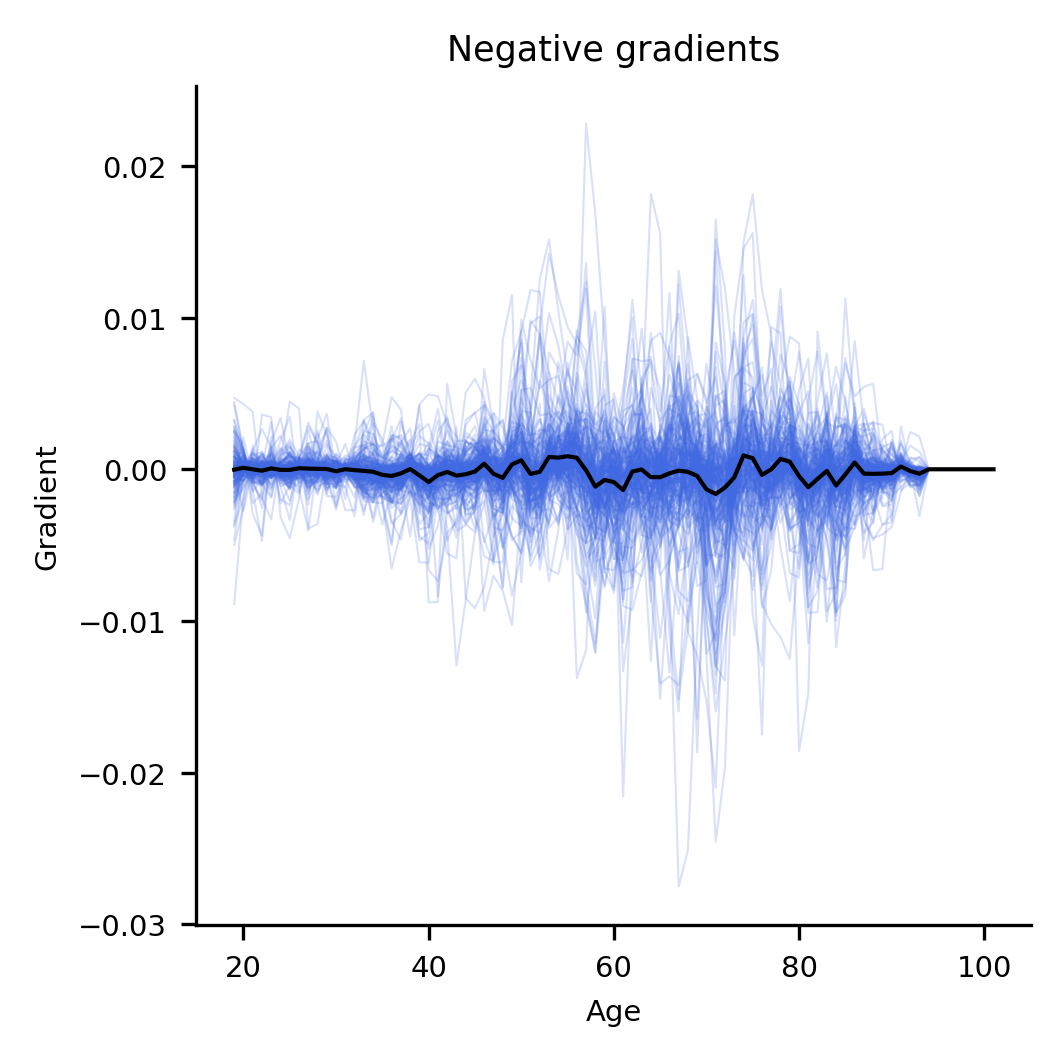
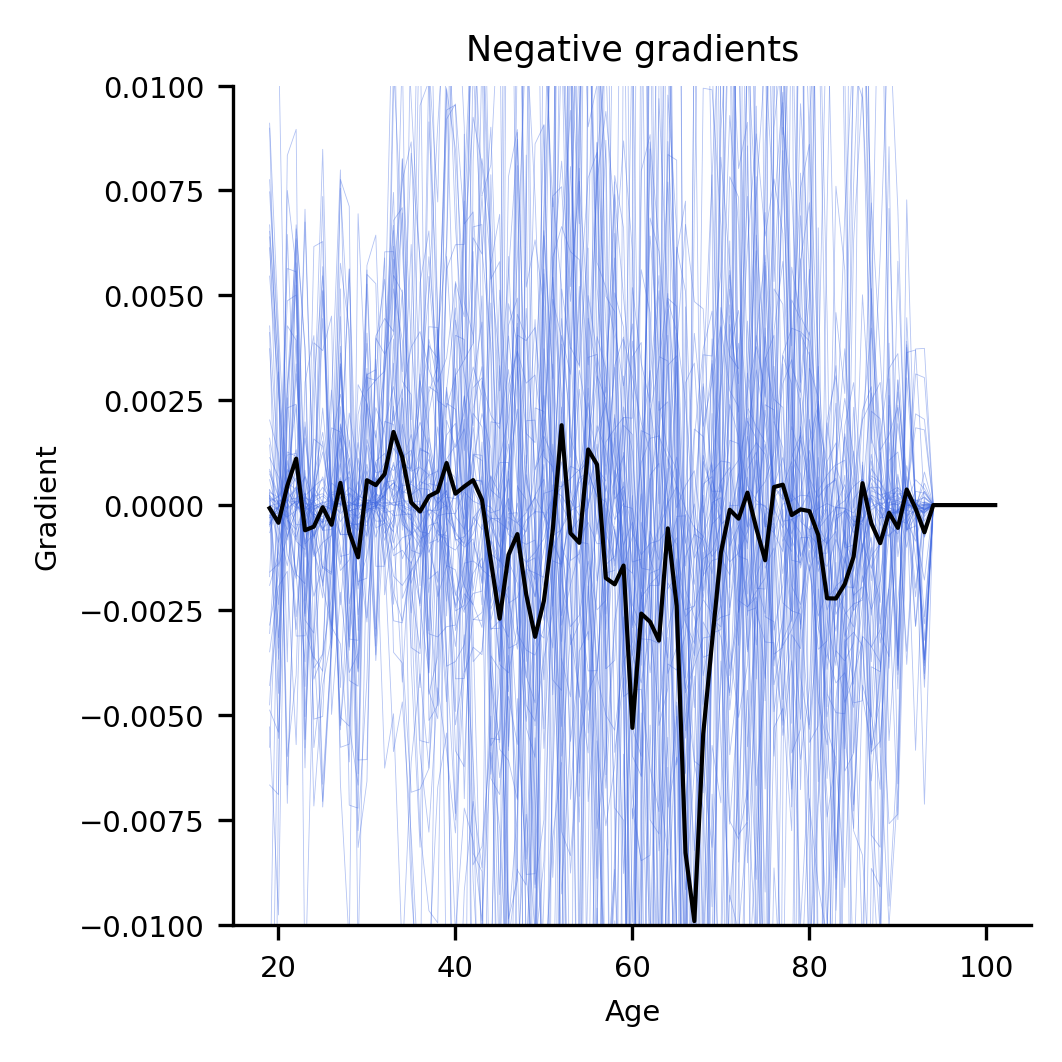
added savgol filter

diff --git a/point_average/adjust_and_vis.py b/point_average/adjust_and_vis.py
@@ -14,6 +14,7 @@ import matplotlib.pyplot as plt
 
 from statsmodels.stats.multitest import multipletests
 import matplotlib.pylab as pl
+from scipy.signal import savgol_filter
 import pdb
 
 
@@ -162,10 +163,9 @@ def calc_derivatives(sel, ages, running_averages, marker_values):
     #Plot running averages with pos and neg gradients
     #Positive
     fig1,ax1 = plt.subplots(figsize=(9/2.54, 9/2.54))
-    fig2,ax2 = plt.subplots(figsize=(9/2.54, 9/2.54))
     for pi in range(len(pos_sel_ra)):
         ax1.plot(np.arange(19,102),pos_sel_ra[pi],color='royalblue', linewidth=0.5,alpha=0.2)
-        ax2.plot(np.arange(19,102),pos_sel_gradients[pi],color='royalblue', linewidth=0.1,alpha=0.2)
+
     #Plot total ra
     pos_sel_ra = np.array(pos_sel_ra)
     print('Positively correlated markers:', len(pos_sel_ra))
@@ -180,32 +180,42 @@ def calc_derivatives(sel, ages, running_averages, marker_values):
     fig1.tight_layout()
     fig1.savefig(outdir+'pos_ra.png', format='png', dpi=300)
 
-    ax2.plot(np.arange(19,102),np.average(np.array(pos_sel_gradients),axis=0),color='k', linewidth=1)
-    ax2.set_title('Positive gradients')
+    #Negative
+    fig1,ax1 = plt.subplots(figsize=(9/2.54, 9/2.54))
+    for pi in range(len(neg_sel_ra)):
+        ax1.plot(np.arange(19,102),neg_sel_ra[pi],color='royalblue', linewidth=0.5,alpha=0.5)
+    #Plot total ra
+    neg_sel_ra = np.array(neg_sel_ra)
+    print('Negatively correlated markers:', len(neg_sel_ra))
+    neg_sel_marker_values = np.array(neg_sel_marker_values)
+    ax1.plot(np.arange(19,102),np.average(neg_sel_ra,axis=0),color='k', linewidth=1)
+    ax1.scatter(ages,np.average(neg_sel_marker_values,axis=0),color='k',s=0.2)
+    ax1.set_title('Negative running averages')
+    ax1.spines['top'].set_visible(False)
+    ax1.spines['right'].set_visible(False)
+    ax1.set_ylabel('Normalized beta value')
+    ax1.set_xlabel('Age')
+    fig1.tight_layout()
+    fig1.savefig(outdir+'neg_ra.png', format='png', dpi=300)
+    plt.close()
+
+    #Plot total gradients
+    fig2,ax2 = plt.subplots(figsize=(9/2.54, 9/2.54))
+    ax2.plot(np.arange(19,102),np.average(np.array(pos_sel_gradients),axis=0),color='royalblue', linewidth=1)
+    ax2.plot(np.arange(19,102),np.average(np.array(neg_sel_gradients),axis=0),color='lightcoral', linewidth=1)
+    neg_sm = savgol_filter(np.average(np.array(neg_sel_gradients),axis=0),15,2)
+    pos_sm = savgol_filter(np.average(np.array(pos_sel_gradients),axis=0),15,2)
+    ax2.plot(np.arange(19,102),neg_sm,color='maroon', linewidth=1)
+    ax2.plot(np.arange(19,102),pos_sm,color='midnightblue', linewidth=1)
+    ax2.set_title('Gradients')
+    ax2.set_ylim([-0.01,0.01])
     ax2.spines['top'].set_visible(False)
     ax2.spines['right'].set_visible(False)
     ax2.set_ylabel('Gradient')
     ax2.set_xlabel('Age')
     fig2.tight_layout()
-    fig2.savefig(outdir+'pos_gradients.png', format='png', dpi=300)
+    fig2.savefig(outdir+'gradients.png', format='png', dpi=300)
 
-    #Negative
-    fig,ax = plt.subplots(figsize=(9/2.54, 9/2.54))
-    for pi in range(len(neg_sel_ra)):
-        ax.plot(np.arange(19,102),neg_sel_ra[pi],color='royalblue', linewidth=0.5,alpha=0.5)
-    #Plot total ra
-    neg_sel_ra = np.array(neg_sel_ra)
-    print('Negatively correlated markers:', len(neg_sel_ra))
-    neg_sel_marker_values = np.array(neg_sel_marker_values)
-    ax.plot(np.arange(19,102),np.average(neg_sel_ra,axis=0),color='k', linewidth=1)
-    ax.scatter(ages,np.average(neg_sel_marker_values,axis=0),color='k',s=0.2)
-    ax.set_title('Negative running averages')
-    ax.spines['top'].set_visible(False)
-    ax.spines['right'].set_visible(False)
-    ax.set_ylabel('Normalized beta value')
-    ax.set_xlabel('Age')
-    fig.tight_layout()
-    fig.savefig(outdir+'neg_ra.png', format='png', dpi=300)
     # #Plot selected markers
     # fig,ax = plt.subplots(figsize=(6/2.54, 6/2.54))
     # #Plot ra with diff >0.1
@@ -312,9 +322,9 @@ sample_sheet = pd.read_csv(args.sample_sheet[0],sep='\t')
 outdir = args.outdir[0]
 
 #Visualize pvals
-vis_pvals(max_fold_change_df)
+#vis_pvals(max_fold_change_df)
 #Visualize age distribution and cutoffs
-vis_age_distr(ages, age_points, sample_sheet)
+#vis_age_distr(ages, age_points, sample_sheet)
 
 #Adjust pvals
 max_fold_change_df = adjust_pvals(max_fold_change_df)
